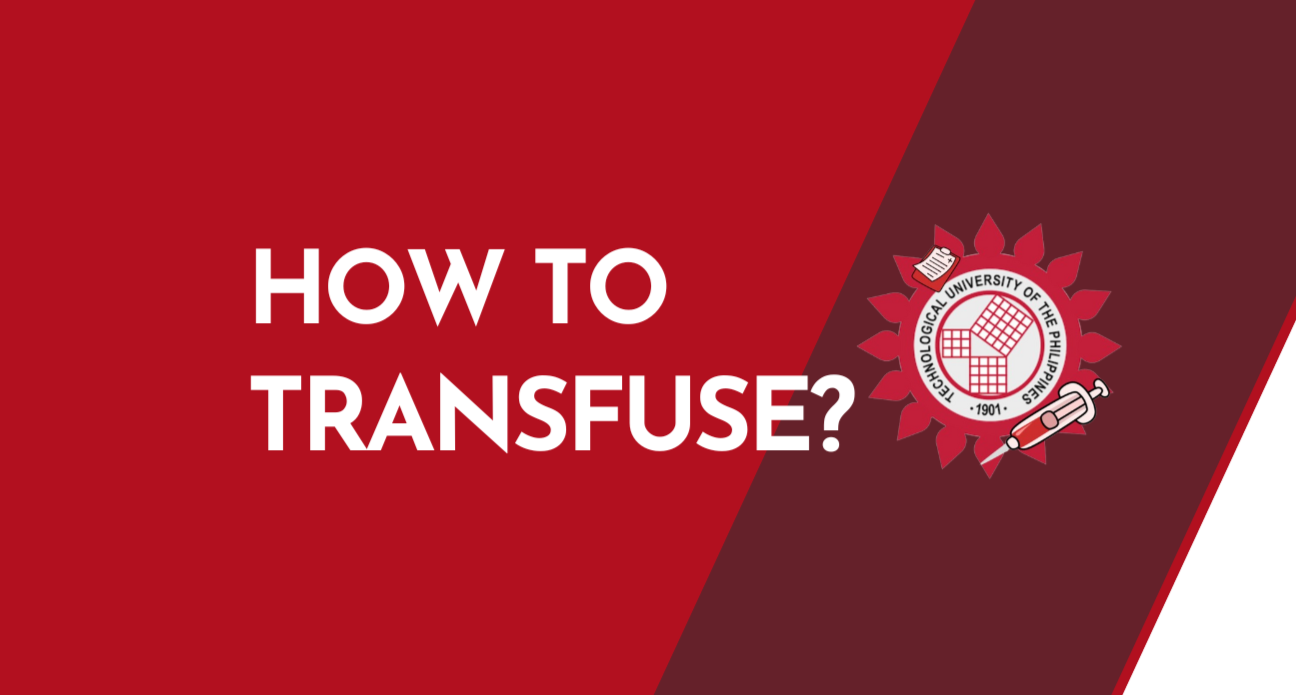
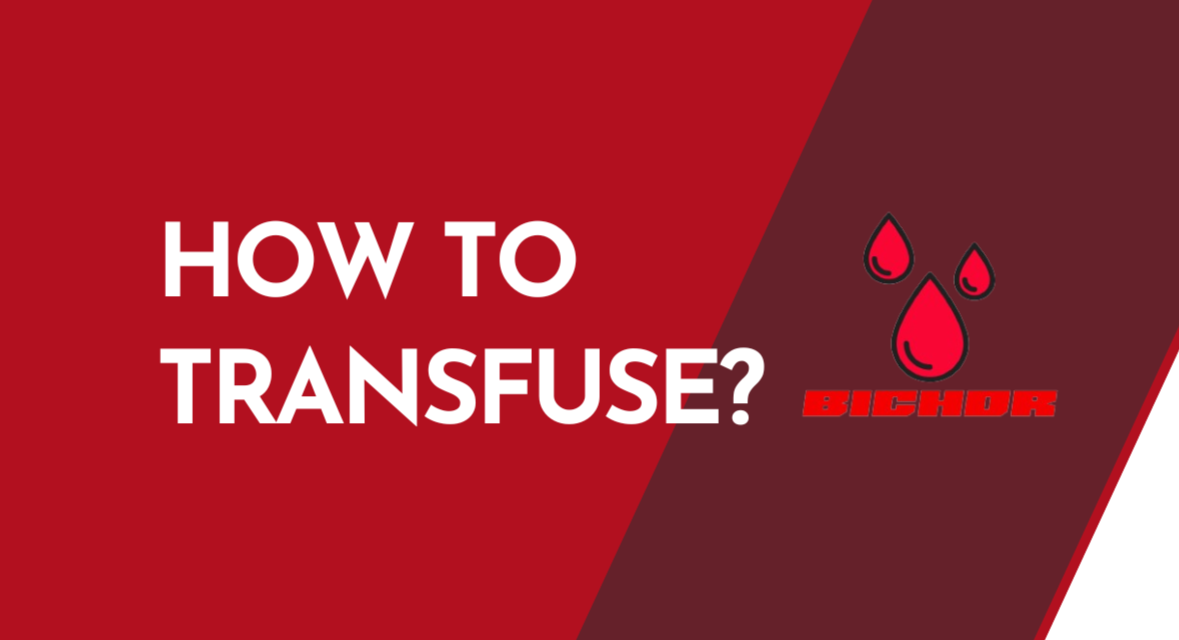
updated

Changed region(s): [[0.1221, 0.0, 0.916, 1.0], [0.1221, 0.3438, 0.5191, 0.4688], [0.855, 0.4375, 1.0, 1.0]]

diff --git a/client/src/pages/Forum/Pad/HowToDonate.js b/client/src/pages/Forum/Pad/HowToDonate.js
@@ -36,7 +36,7 @@ const HowToDonate = () => {
             <header className='header'>
                 <nav className="navbar navbar-expand-lg bg-body-tertiary header" style={{ height:'12%'}}>
                     <div className="container-fluid">
-                        <img src="../../../assets/images/systemLOGOMAIN.png" alt="logotup" id='tuplogo' />
+                    <img src="../../../assets/images/logoBIchor.png" alt="logotup" id='tuplogo' style={{width: '100px', height: '80px'}}/>
                         {user && user.role !== 'admin' && (
                             <>
                                 <Link to="/" className="navbar-brand" style={{ color: 'black' }}>
@@ -152,7 +152,7 @@ const HowToDonate = () => {
                                                     <center>
                                                         <div style={{ marginLeft: '40px' }}>
                                                             <Card className='badge bg-white' style={{ fontSize: '20px' }}>
-                                                                <img src="../../../assets/images/systemLOGOMAIN.png" classname="img-fluid my-3" alt="banner" style={{ width: '50%', height: '50%', objectFit: 'cover', borderRadius: '60px' }} />
+                                                                <img src="../../../assets/images/logoBIchor.png" classname="img-fluid my-3" alt="banner" style={{ width: '50%', height: '50%', objectFit: 'cover', borderRadius: '60px' }} />
                                                                 <li className='my-3'>
                                                                     <button onClick={() => { window.location.href = '/blood/forum/the-pad/how-to-donate' }} className='button-link'>How To Donate?</button>
                                                                 </li>
@@ -197,6 +197,7 @@ const HowToDonate = () => {
                                             <center>
                                                 <iframe className="embed-responsive-item" src="https://www.youtube.com/embed/jmhiHKsEUXU" allowFullScreen width="750" height="450"></iframe>
                                             </center>
+                                            <strong><p className="citation" style={{marginLeft: 120, color: 'maroon'}}>Donating Blood for the First Time. (Jun 1, 2022). <a href="https://www.youtube.com/watch?v=jmhiHKsEUXU">www.youtube.com</a>. Retrieved March 18, 2024.</p></strong>
                                         </div>
 
                                         <hr></hr>
@@ -208,6 +209,7 @@ const HowToDonate = () => {
                                             <center>
                                                 <iframe className="embed-responsive-item" src="https://www.youtube.com/embed/Q55LrC7vijM" allowFullScreen width="750" height="450"></iframe>
                                             </center>
+                                            <strong><p className="citation" style={{marginLeft: 120, color: 'maroon'}}>The Journey of Blood: What happens after you give blood | NHS Give Blood. (Feb 27, 2023). <a href="https://www.youtube.com/watch?v=Q55LrC7vijM">www.youtube.com</a>. Retrieved March 13, 2024.</p></strong>
                                         </div>
 
                                         <hr></hr>
@@ -219,6 +221,7 @@ const HowToDonate = () => {
                                             <center>
                                                 <iframe className="embed-responsive-item" src="https://www.youtube.com/embed/F4fiWZyVsTE" allowFullScreen width="750" height="450"></iframe>
                                             </center>
+                                            <strong><p className="citation" style={{marginLeft: 120, color: 'maroon'}}>6 AMAZING Health Benefits Of DONATING BLOOD You Don’t Know About. (Mar 19, 2023). <a href="https://www.youtube.com/watch?v=F4fiWZyVsTE">www.youtube.com</a>. Retrieved March 18, 2024.</p></strong>
                                         </div>
                                     </Card>
                                 </Card>

diff --git a/client/src/pages/Forum/Pad/HowToTransfuse.js b/client/src/pages/Forum/Pad/HowToTransfuse.js
@@ -36,7 +36,7 @@ const HowToTransfuse = () => {
             <header className='header'>
                 <nav className="navbar navbar-expand-lg bg-body-tertiary header" style={{ height: '12%' }}>
                     <div className="container-fluid">
-                        <img src="../../../assets/images/systemLOGOMAIN.png" alt="logotup" id='tuplogo' />
+                    <img src="../../../assets/images/logoBIchor.png" alt="logotup" id='tuplogo' style={{width: '100px', height: '80px'}}/>
                         {user && user.role !== 'admin' && (
                             <>
                                 <Link to="/" className="navbar-brand" style={{ color: 'black' }}>
@@ -152,7 +152,7 @@ const HowToTransfuse = () => {
                                                     <center>
                                                         <div style={{ marginLeft: '40px' }}>
                                                             <Card className='badge bg-white' style={{ fontSize: '20px' }}>
-                                                                <img src="../../../assets/images/systemLOGOMAIN.png" classname="img-fluid my-3" alt="banner" style={{ width: '30%', height: '50%', objectFit: 'cover', borderRadius: '60px' }} />
+                                                                <img src="../../../assets/images/logoBIchor.png" classname="img-fluid my-3" alt="banner" style={{ width: '30%', height: '50%', objectFit: 'cover', borderRadius: '60px' }} />
                                                                 <li className='my-3'>
                                                                     <button onClick={() => { window.location.href = '/blood/forum/the-pad/how-to-donate' }} className='button-link'>How To Donate?</button>
                                                                 </li>
@@ -191,6 +191,7 @@ const HowToTransfuse = () => {
                                             <center>
                                                 <iframe className="embed-responsive-item" src="https://www.youtube.com/embed/uLydffMNnEY" allowFullScreen width="750" height="450"></iframe>
                                             </center>
+                                            <strong><p className="citation" style={{marginLeft: 120, color: 'maroon'}}>Blood transfusion: Setup and Transfusion (Primary Y Type Tubing). (Jul 11, 2023). <a href="https://www.youtube.com/watch?v=uLydffMNnEY">www.youtube.com</a>. Retrieved March 18, 2024.</p></strong>
                                         </div>
                                         <hr></hr>
                                         <div>
@@ -201,6 +202,7 @@ const HowToTransfuse = () => {
                                             <center>
                                                 <iframe className="embed-responsive-item" src="https://www.youtube.com/embed/KufB1rabAQU" allowFullScreen width="750" height="450"></iframe>
                                             </center>
+                                            <strong><p className="citation" style={{marginLeft: 120, color: 'maroon'}}>What does a Blood Transfusion look Like? (Sep 7, 2017). <a href="https://www.youtube.com/watch?v=KufB1rabAQU">www.youtube.com</a>. Retrieved March 18, 2024.</p></strong>
                                         </div>
                                     </Card>
                                 </Card>

diff --git a/client/src/pages/user/Appointment/DownloadAppointment.js b/client/src/pages/user/Appointment/DownloadAppointment.js
@@ -153,7 +153,7 @@ const PrintPDFAppointment = () => {
             <header className='header'>
                 <nav className="navbar navbar-expand-lg bg-body-tertiary header" style={{ height: '12%' }}>
                     <div className="container-fluid">
-                        <img src="../../assets/images/systemLOGOMAIN.png" alt="logotup" id='tuplogo' />
+                        <img src="../../assets/images/BIchor.png" alt="logotup" id='tuplogo' />
                         <Link to="/" className="navbar-brand" style={{ color: 'black' }}>
                             Blood Donation
                         </Link>
@@ -187,7 +187,7 @@ const PrintPDFAppointment = () => {
                                     <Row className="mb-4">
                                         <div className="container">
                                             <div style={{ textAlign: 'center', fontWeight: 'bold', fontSize: '24px', padding: '20px', background: '#f0f0f0', border: '2px solid #333', borderRadius: '10px', boxShadow: '0 0 10px rgba(0, 0, 0, 0.1)' }}>
-                                                <img src="../../assets/images/systemLOGOMAIN.png" alt="logotup" id='tuplogo' style={{ width: "20%", height: "20%" }} />
+                                                <img src="../../assets/images/logoBIchor.png" alt="logotup" id='tuplogo' style={{ width: "20%", height: "20%" }} />
                                                 <p style={{ margin: '0', fontWeight: 'bold' }}>APPOINTMENT RECEIPT</p>
                                                 <h6 style={{ margin: '0', fontWeight: 'lighter' }}>Technological University of the Philippines, Taguig City</h6>
                                             </div>
@@ -247,7 +247,7 @@ const PrintPDFAppointment = () => {
                                                         )}
                                                     </Card>
                                                     <Card style={{ flex: 1, display: 'flex', flexDirection: 'column', justifyContent: 'flex-end', alignItems: 'center' }}>
-                                                        <img src="../../assets/images/systemLOGOMAIN.png" alt="logotup" id='tuplogo' style={{ height: '50%', width: '60%' }} />
+                                                        <img src="../../assets/images/BIchor.png" alt="logotup" id='tuplogo' style={{ height: '50%', width: '60%' }} />
                                                         <p><Barcode value={appointment._id} height={30} width={0.7} displayValue={false} /></p>
                                                         <h3 style={{ margin: '0', marginBottom: '10px', color: '#333' }}>Status:</h3>
                                                         {/* <p>{appointment.status}</p> */}

diff --git a/client/src/pages/Forum/Pad/TheIncentives.js b/client/src/pages/Forum/Pad/TheIncentives.js
@@ -38,7 +38,7 @@ const TheIncentives = () => {
             <header className='header'>
                 <nav className="navbar navbar-expand-lg bg-body-tertiary header" style={{ height:'12%'}}>
                     <div className="container-fluid">
-                        <img src="../../../assets/images/systemLOGOMAIN.png" alt="logotup" id='tuplogo' />
+                    <img src="../../../assets/images/logoBIchor.png" alt="logotup" id='tuplogo' style={{width: '100px', height: '80px'}}/>
                         {user && user.role !== 'admin' && (
                             <>
                                 <Link to="/" className="navbar-brand" style={{ color: 'black' }}>
@@ -154,7 +154,7 @@ const TheIncentives = () => {
                                                     <center>
                                                         <div style={{ marginLeft: '40px' }}>
                                                             <Card className='badge bg-white' style={{ fontSize: '20px' }}>
-                                                                <img src="../../../assets/images/systemLOGOMAIN.png" classname="img-fluid my-3" alt="banner" style={{ width: '30%', height: '50%', objectFit: 'cover', borderRadius: '60px' }} />
+                                                                <img src="../../../assets/images/logoBIchor.png" classname="img-fluid my-3" alt="banner" style={{ width: '30%', height: '50%', objectFit: 'cover', borderRadius: '60px' }} />
                                                                 <li className='my-3'>
                                                                     <button onClick={() => { window.location.href = '/blood/forum/the-pad/how-to-donate' }} className='button-link'>How To Donate?</button>
                                                                 </li>
@@ -194,6 +194,7 @@ const TheIncentives = () => {
                                             <center>
                                                 <iframe className="embed-responsive-item" src="https://www.youtube.com/embed/Af0gk_kiGac" allowFullScreen width="750" height="450"></iframe>
                                             </center>
+                                            <strong><p className="citation" style={{marginLeft: 120, color: 'maroon'}}>WHO: Every blood donor is a hero. (Jun 13, 2012). <a href="https://www.youtube.com/watch?v=Af0gk_kiGac">www.youtube.com</a>. Retrieved March 18, 2024.</p></strong>
                                         </div>
                                     </Card>
                                 </Card>

diff --git a/client/src/pages/Forum/ThePad.js b/client/src/pages/Forum/ThePad.js
@@ -36,7 +36,7 @@ const ThePad = () => {
             <header className='header'>
                 <nav className="navbar navbar-expand-lg bg-body-tertiary header" style={{ height:'12%'}}>
                     <div className="container-fluid">
-                        <img src="../../../assets/images/systemLOGOMAIN.png" alt="logotup" id='tuplogo' />
+                        <img src="../../../assets/images/logoBIchor.png" alt="logotup" id='tuplogo' style={{width: '100px', height: '80px'}}/>
                         {user && user.role !== 'admin' && (
                             <>
                                 <Link to="/" className="navbar-brand" style={{ color: 'black' }}>
@@ -148,7 +148,7 @@ const ThePad = () => {
                                                     <center>
                                                         <div style={{ marginLeft: '40px' }}>
                                                             <Card className='badge bg-white' style={{ fontSize: '20px' }}>
-                                                                <img src="../../../assets/images/systemLOGOMAIN.png" classname="img-fluid my-3" alt="banner" style={{ width: '30%', height: '50%', objectFit: 'cover', borderRadius: '60px' }} />
+                                                                <img src="../../../assets/images/logoBIchor.png" classname="img-fluid my-3" alt="banner" style={{ width: '30%', height: '50%', objectFit: 'cover', borderRadius: '60px' }} />
                                                                 <li className='my-3'>
                                                                     <button onClick={() => { window.location.href = '/blood/forum/the-pad/how-to-donate' }} className='button-link'>How To Donate?</button>
                                                                 </li>
@@ -183,6 +183,7 @@ const ThePad = () => {
                                             <center>
                                                 <iframe className="embed-responsive-item" src="https://www.youtube.com/embed/IogKmimow7g" allowFullScreen width="750" height="450"></iframe>
                                             </center>
+                                            <strong><p className="citation" style={{marginLeft: 120, color: 'maroon'}}>Catriona Gray for Blood Donation. (Jan 13, 2021). <a href="https://www.youtube.com/watch?v=IogKmimow7g">www.youtube.com</a>. Retrieved March 18, 2024.</p></strong>
                                         </div>
 
                                     </Card>

diff --git a/client/src/pages/admin/Appointment/PrintPDFAppointment.js b/client/src/pages/admin/Appointment/PrintPDFAppointment.js
@@ -15,6 +15,7 @@ import Barcode from 'react-barcode';
 import html2canvas from 'html2canvas';
 import jsPDF from 'jspdf';
 
+
 const PrintPDFAppointment = () => {
     const [appointment, setAppointment] = useState(null);
     const [events, setEvents] = useState([]);
@@ -123,7 +124,7 @@ const PrintPDFAppointment = () => {
                                     <Row className="mb-4">
                                         <div className="container">
                                             <div style={{ textAlign: 'center', fontWeight: 'bold', fontSize: '24px', padding: '20px', background: '#f0f0f0', border: '2px solid #333', borderRadius: '10px', boxShadow: '0 0 10px rgba(0, 0, 0, 0.1)' }}>
-                                                <img src="../../assets/images/systemLOGOMAIN.png" alt="logotup" id='tuplogo' style={{ width: "20%", height: "20%" }} />
+                                            <img src="../assets/images/logoBIchor.png" alt="logotup" id="tuplogo" style={{width: '20%', height: '20%', borderRadius: '50%'}} />
                                                 <p style={{ margin: '0', fontWeight: 'bold' }}>APPOINTMENT RECEIPT</p>
                                                 <h6 style={{ margin: '0', fontWeight: 'lighter' }}>Technological University of the Philippines, Taguig City</h6>
                                             </div>
@@ -183,7 +184,7 @@ const PrintPDFAppointment = () => {
                                                         )}
                                                     </Card>
                                                     <Card style={{ flex: 1, display: 'flex', flexDirection: 'column', justifyContent: 'flex-end', alignItems: 'center' }}>
-                                                        <img src="../../assets/images/systemLOGOMAIN.png" alt="logotup" id='tuplogo' style={{ height: '50%', width: '60%' }} />
+                                                    <img src="./assets/images/logoBIchor.png" alt="logotup" id="tuplogo" style={{width: '20%', height: '20%', borderRadius: '50%'}} />
                                                         <p><Barcode value={appointment._id} height={30} width={0.7} displayValue={false} /></p>
                                                         <h3 style={{ margin: '0', marginBottom: '10px', color: '#333' }}>Status:</h3>
                                                         {/* <p>{appointment.status}</p> */}

diff --git a/client/src/pages/user/Appointment/EditAppointment.js b/client/src/pages/user/Appointment/EditAppointment.js
@@ -122,7 +122,7 @@ const EditAppointment = () => {
                 <header className='header'>
                     <nav className="navbar navbar-expand-lg bg-body-tertiary header" style={{ height:'12%'}}>
                         <div className="container-fluid">
-                            <img src="../../assets/images/systemLOGOMAIN.png" alt="logotup" id='tuplogo' />
+                            <img src="../assets/images/BIchor.png" alt="logotup" id='tuplogo' />
                             <Link to="/" className="navbar-brand" style={{ color: 'black' }}>
                                 Blood Donation
                             </Link>
@@ -163,7 +163,7 @@ const EditAppointment = () => {
                                                         <Row className="mb-4">
                                                             <div className="container">
                                                                 <div style={{ textAlign: 'center', fontWeight: 'bold', fontSize: '24px', padding: '20px', background: '#f0f0f0', border: '2px solid #333', borderRadius: '10px', boxShadow: '0 0 10px rgba(0, 0, 0, 0.1)' }}>
-                                                                    <img src="../../assets/images/systemLOGOMAIN.png" alt="logotup" id='tuplogo' style={{ width: "20%", height: "20%" }} />
+                                                                    <img src="../../assets/images/BIchor.png" alt="logotup" id='tuplogo' style={{ width: "20%", height: "20%" }} />
                                                                     <p style={{ margin: '0', fontWeight: 'bold' }}>APPOINTMENT STATUS</p>
                                                                     <h6 style={{ margin: '0', fontWeight: 'lighter' }}>Technological University of the Philippines, Taguig City</h6>
                                                                 </div>

diff --git a/client/src/pages/Forum/Forum.js b/client/src/pages/Forum/Forum.js
@@ -193,7 +193,7 @@ const Forum = () => {
             <header className='header'>
                 <nav className="navbar navbar-expand-lg bg-body-tertiary header" style={{ height:'12%'}}>
                     <div className="container-fluid">
-                        <img src="../assets/images/systemLOGOMAIN.png" alt="logotup" id='tuplogo' />
+                    <img src="../assets/images/logoBIchor.png" alt="logotup" id="tuplogo" style={{width: '100px', height: '80px', borderRadius: '50%'}} />
                         {user && user.role !== 'admin' && (
                             <>
                                 <Link to="/" className="navbar-brand" style={{ color: 'black' }}>
@@ -299,7 +299,7 @@ const Forum = () => {
                                     </center>
                                     <p>___ <a style={{ color: 'red', fontWeight: 'bold' }}>Latest</a> New's _______________________________________________________________________________________________________________</p>
                                     <Card className='px-4' style={{ backgroundColor: 'white', color: 'white', width: '90%' }}>
-                                        <img src="../assets/images/systemLOGOMAIN.png" classname="img-fluid my-3" alt="banner" style={{ width: '20%', height: '20%', objectFit: 'cover', borderRadius: '100px' }} />
+                                    <img src="../assets/images/BIchor.png" alt="logotup" id="tuplogo" style={{width: '10%', height: '10%', borderRadius: '50%'}} />
                                         <Row>
                                             <Col style={{ justifyContent: 'center', alignItems: 'center', color: 'white' }}>
                                                 <Row>

diff --git a/client/src/pages/admin/Donor/UpdateDonor.js b/client/src/pages/admin/Donor/UpdateDonor.js
@@ -148,7 +148,7 @@ const UpdateDonor = () => {
             <header>
                 <nav className="navbar navbar-expand-lg bg-body-tertiary header" style={{ height: '12%' }}>
                     <div className="container-fluid">
-                        <img src="../../../assets/images/systemLOGOMAIN.png" alt="logotup" id='tuplogo' />
+                    <img src="../../../assets/images/BIChor.png" alt="logotup" id="tuplogo" style={{width: '10%', height: '10%', borderRadius: '50%'}} />
                         <Link to="/dashboard" className="navbar-brand" style={{ color: 'black' }}>
                             Blood Donation
                         </Link>
@@ -181,7 +181,7 @@ const UpdateDonor = () => {
                                 <Row className="mb-4">
                                     <div className="container">
                                         <div style={{ textAlign: 'center', fontWeight: 'bold', fontSize: '24px', padding: '20px', background: '#f0f0f0', border: '2px solid #333', borderRadius: '10px', boxShadow: '0 0 10px rgba(0, 0, 0, 0.1)' }}>
-                                            <img src="../../../assets/images/systemLOGOMAIN.png" alt="logotup" id='tuplogo' style={{ width: "20%", height: "20%" }} />
+                                            <img src="../../../assets/images/logoBIchor.png" alt="logotup" id='tuplogo' style={{ width: "20%", height: "20%" }} />
                                             <p style={{ margin: '0', fontWeight: 'bold' }}>USER UPDATE</p>
                                             <h6 style={{ margin: '0', fontWeight: 'lighter' }}>Technological University of the Philippines, Taguig City</h6>
                                         </div>

diff --git a/client/src/pages/user/Incentives.js b/client/src/pages/user/Incentives.js
@@ -182,7 +182,7 @@ const Incentives = () => {
                 <header className='header'>
                     <nav className="navbar navbar-expand-lg bg-body-tertiary header" style={{ height: '12%' }}>
                         <div className="container-fluid">
-                            <img src="../assets/images/systemLOGOMAIN.png" alt="logotup" id='tuplogo' />
+                            <img src="../assets/images/BIchor.png" alt="logotup" id='tuplogo' />
                             <Link to="/" className="navbar-brand" style={{ color: 'black' }}>
                                 Blood Donation
                             </Link>
@@ -240,7 +240,7 @@ const Incentives = () => {
                                                             <Row style={{ backgroundColor: '#2a18b5', width: '70%' }}>
                                                                 {/* Move this Col to the most left side */}
                                                                 <Col style={{ backgroundColor: '#2a18b5' }}>
-                                                                    <img src="../assets/images/tuplogo.png" alt="logotup" style={{ width: '100%', height: '100%', borderRadius: '50px' }} />
+                                                                    <img src="../assets/images/BIchor.png" alt="logotup" style={{ width: '120%', height: '100%', borderRadius: '50px' }} />
                                                                 </Col>
                                                                 {/* Rest of the content */}
                                                                 <Col className='responsive' style={{ backgroundColor: '#2a18b5' }}>

diff --git a/client/src/pages/user/UpdateProfile.js b/client/src/pages/user/UpdateProfile.js
@@ -136,7 +136,7 @@ const UpdateProfile = () => {
             <header>
                 <nav className="navbar navbar-expand-lg bg-body-tertiary header">
                     <div className="container-fluid">
-                        <img src="../../../assets/images/systemLOGOMAIN.png" alt="logotup" id='tuplogo' />
+                        <img src="../../../assets/images/logoBIchor.png" alt="logotup" id='tuplogo' />
                         <Link to="/dashboard" className="navbar-brand" style={{ color: 'black' }}>
                             Blood Donation
                         </Link>
@@ -177,7 +177,7 @@ const UpdateProfile = () => {
                                 <Row className="mb-4">
                                     <div className="container">
                                         <div style={{ textAlign: 'center', fontWeight: 'bold', fontSize: '24px', padding: '20px', background: '#f0f0f0', border: '2px solid #333', borderRadius: '10px', boxShadow: '0 0 10px rgba(0, 0, 0, 0.1)' }}>
-                                            <img src="../../../assets/images/systemLOGOMAIN.png" alt="logotup" id='tuplogo' style={{ width: "20%", height: "20%" }} />
+                                            <img src="../../../assets/images/logoBIchor.png" alt="logotup" id='tuplogo' style={{ width: "20%", height: "20%" }} />
                                             <p style={{ margin: '0', fontWeight: 'bold' }}>PROFILE UPDATE</p>
                                             <h6 style={{ margin: '0', fontWeight: 'lighter' }}>Technological University of the Philippines, Taguig City</h6>
                                         </div>

diff --git a/client/src/pages/admin/Appointment/Appointment.js b/client/src/pages/admin/Appointment/Appointment.js
@@ -9,7 +9,7 @@ import { MDBDataTable } from 'mdbreact';
 import { Link } from 'react-router-dom';
 import Sidebar from '../../../components/Layouts/AdminSidebar';
 import Header from '../../../components/Layouts/AdminHeader';
-import '../../../index.css'
+import '../../../index.css';
 import { toast } from "react-toastify";
 import "react-toastify/dist/ReactToastify.css";
 import AdminHeader from '../../../components/Layouts/AdminHeader';
@@ -438,7 +438,7 @@ const Appointment = () => {
                                 <Row className="mb-4">
                                     <div className="container">
                                         <div style={{ textAlign: 'center', fontWeight: 'bold', fontSize: '24px', padding: '20px', background: '#f0f0f0', border: '2px solid #333', borderRadius: '10px', boxShadow: '0 0 10px rgba(0, 0, 0, 0.1)' }}>
-                                            <img src="../../assets/images/systemLOGOMAIN.png" alt="logotup" id='tuplogo' style={{ width: "20%", height: "20%" }} />
+                                        <img src="../assets/images/BIchor.png" alt="logotup" id="tuplogo" style={{width: '10%', height: '10%', borderRadius: '50%'}} />
                                             <p style={{ margin: '0', fontWeight: 'bold' }}>APPOINTMENTS LIST</p>
                                             <h6 style={{ margin: '0', fontWeight: 'lighter' }}>Technological University of the Philippines, Taguig City</h6>
                                         </div>
